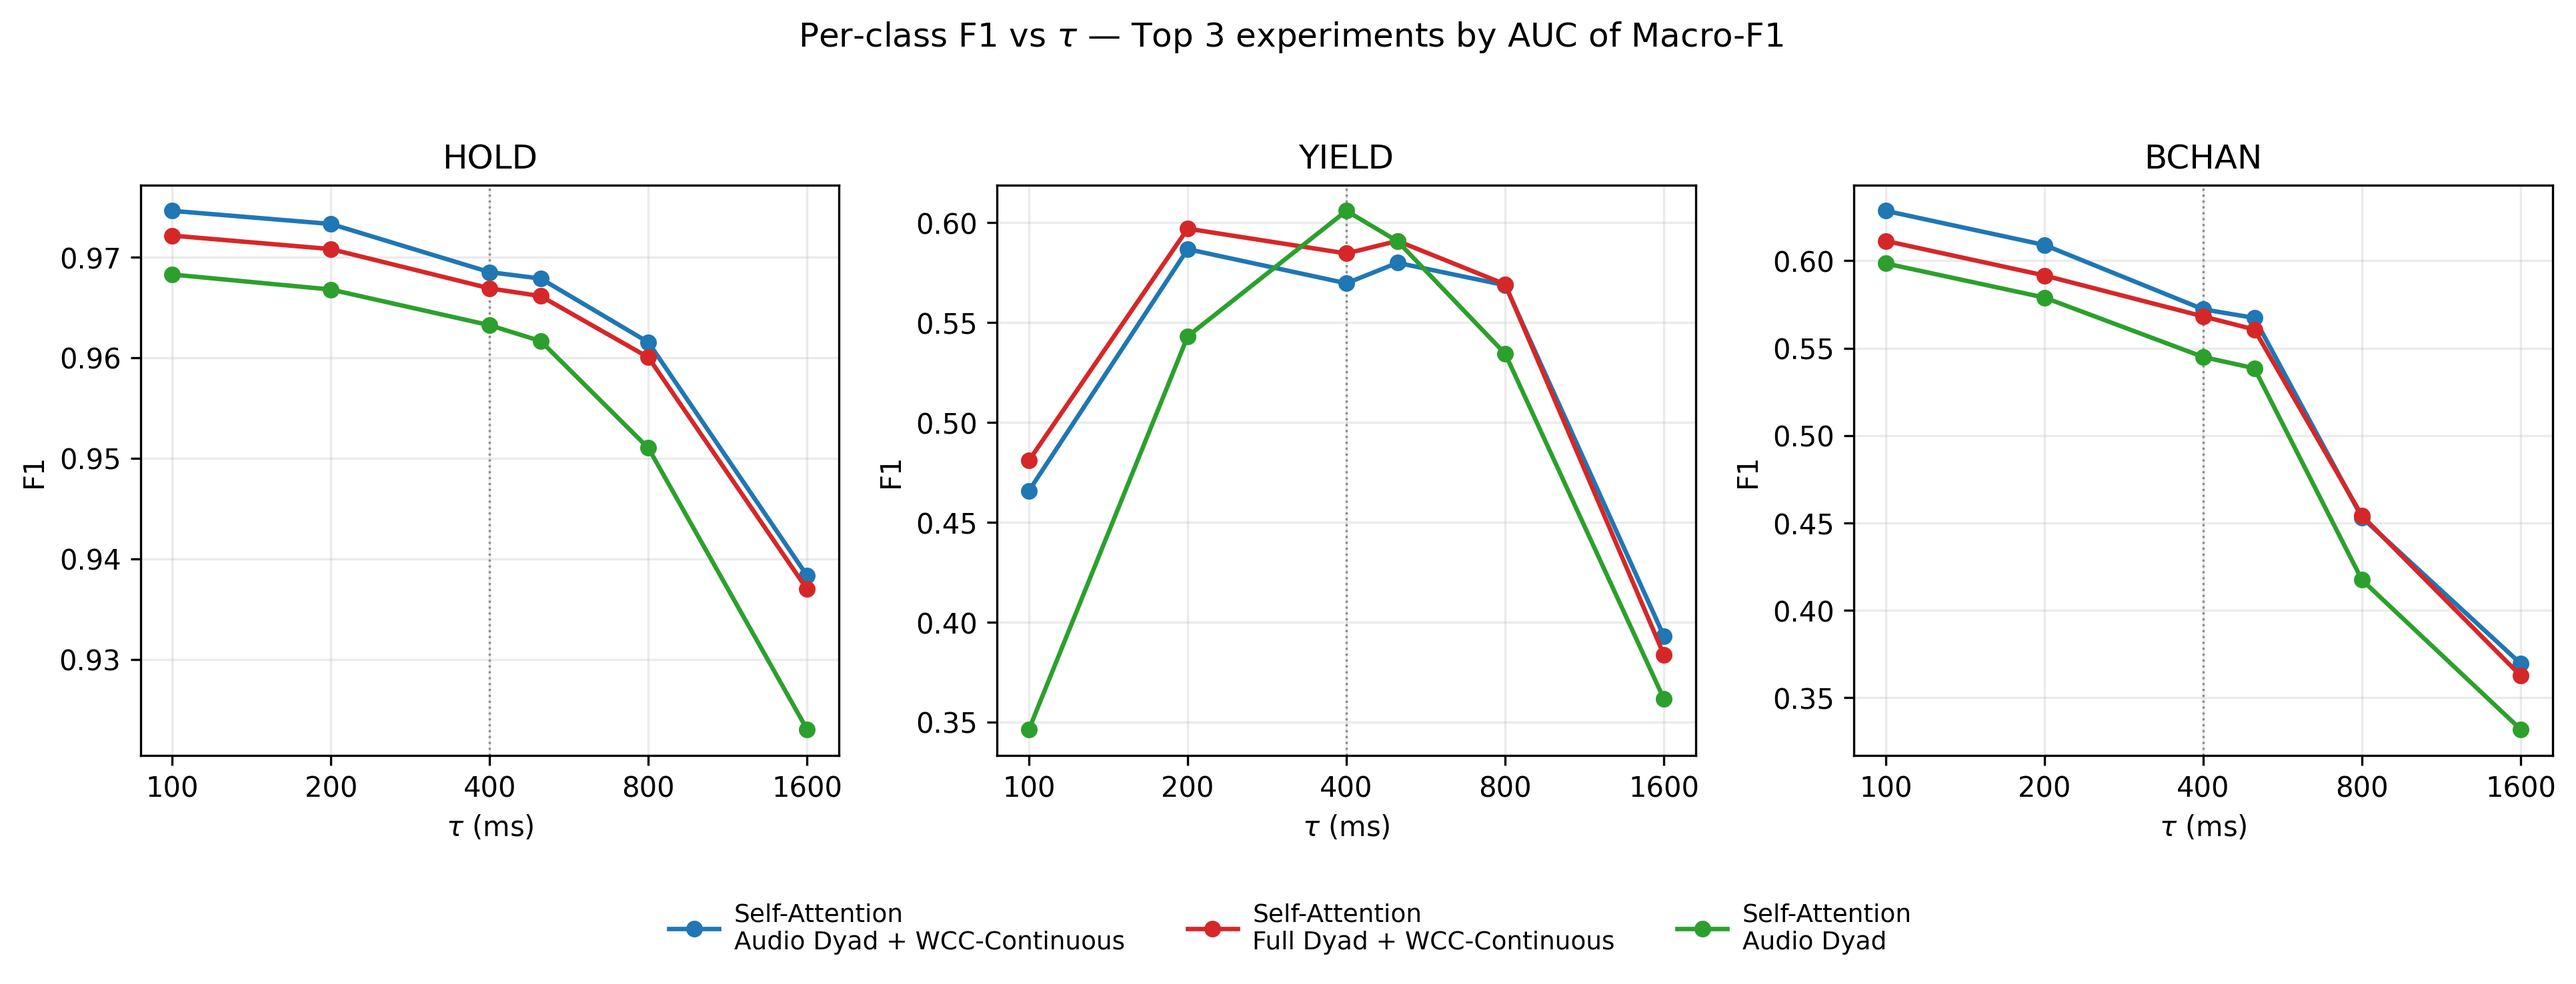
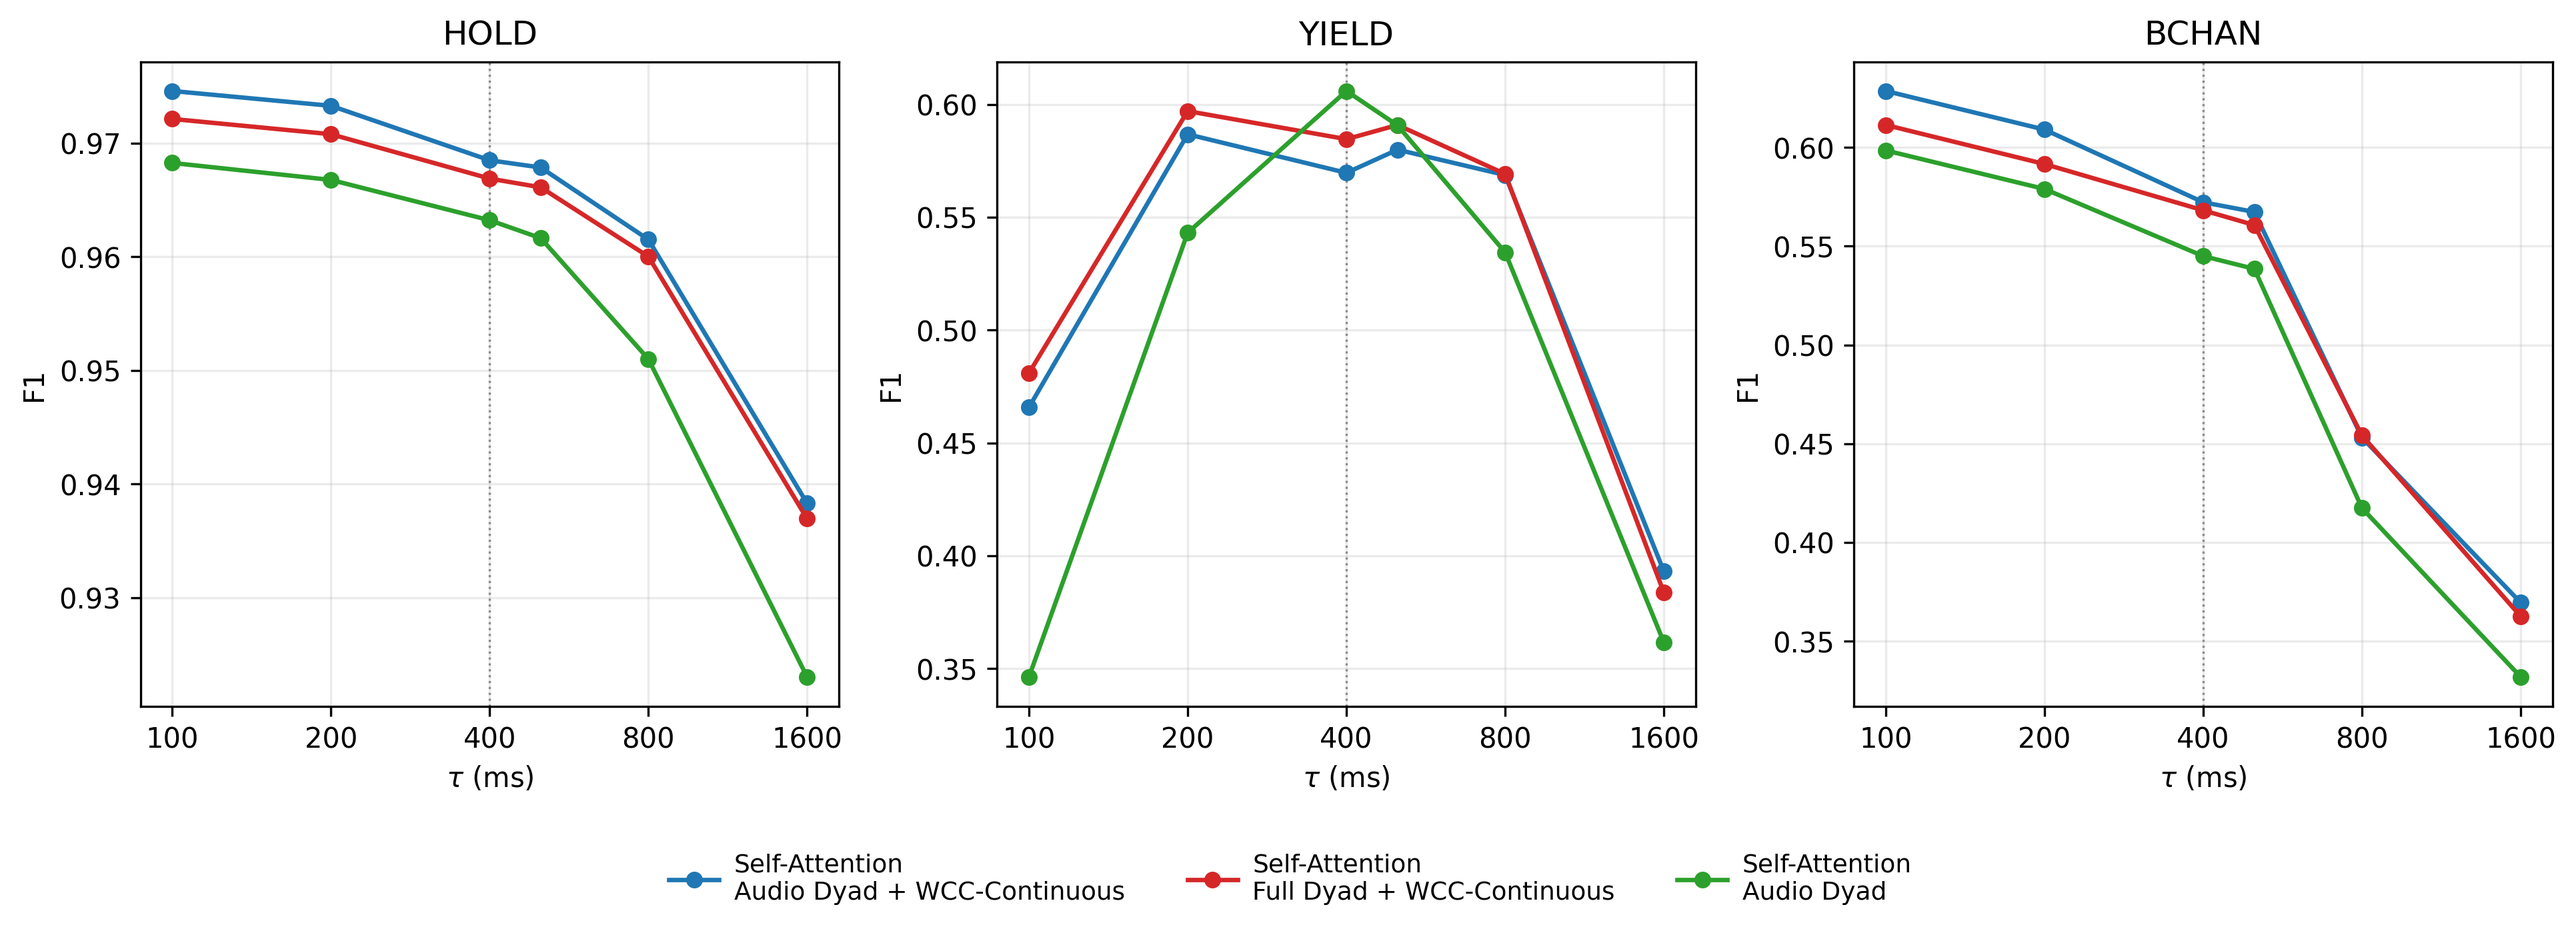
rm fig title

diff --git a/turn_taking_analysis/scripts/gen_tables_figs.py b/turn_taking_analysis/scripts/gen_tables_figs.py
@@ -159,7 +159,6 @@ def _plot_per_class_vs_tau(
     metric_prefix: str,
     metric_label: str,
     out_png: Path,
-    fig_title: str,
     dpi: int = DEFAULT_DPI,
     figsize: tuple = DEFAULT_FIGSIZE,
 ) -> Path:
@@ -222,7 +221,8 @@ def _plot_per_class_vs_tau(
     fig.legend(handles, labels, loc="lower center", ncol=len(top_rows),
                bbox_to_anchor=(0.5, -0.12), frameon=False, fontsize=9,
                handletextpad=0.6, columnspacing=2.5)
-    fig.suptitle(fig_title, fontsize=12, y=1.02)
+    # No \suptitle: the figure is shown with a LaTeX \caption{} in the host
+    # paper, so an in-image title would be redundant.
     fig.tight_layout()
 
     out_png.parent.mkdir(parents=True, exist_ok=True)
@@ -264,7 +264,6 @@ def figure_per_class_f1_vs_tau(
         metric_prefix="f1",
         metric_label="F1",
         out_png=out_png,
-        fig_title=rf"Per-class F1 vs $\tau$ — Top {top_n} experiments by AUC of Macro-F1",
         dpi=dpi,
     )
 
@@ -298,7 +297,6 @@ def figure_per_class_recall_vs_tau(
         metric_prefix="recall",
         metric_label="Recall",
         out_png=out_png,
-        fig_title=rf"Per-class Recall vs $\tau$ — Top {top_n} experiments by AUC of Macro-TPR",
         dpi=dpi,
     )
 
